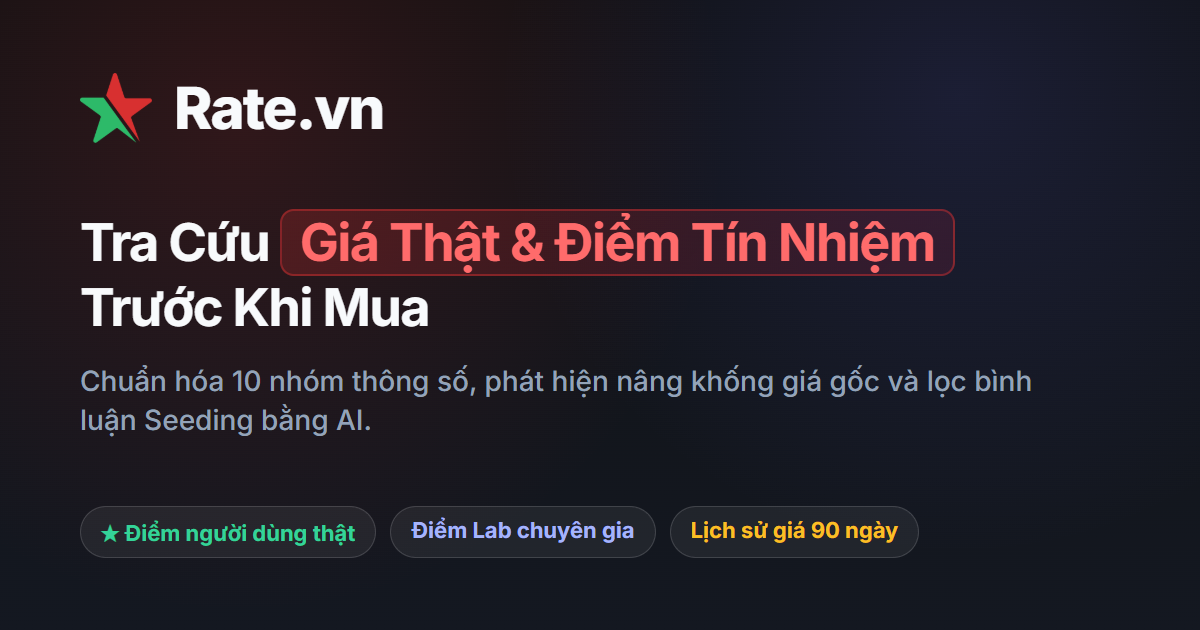
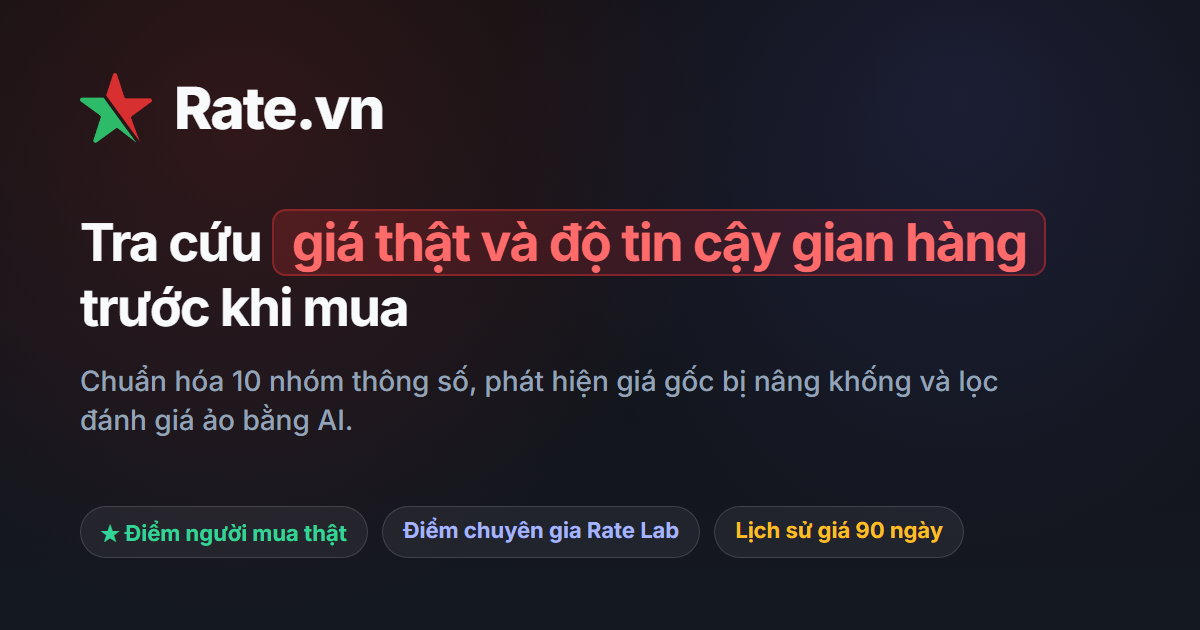
fix(web): match the share image to the plain home hero (#675) (#676)
* fix(web): match the share image to the plain home hero (#675)

The default share card read "Tra Cứu Giá Thật & Điểm Tín Nhiệm" and
"lọc bình luận Seeding bằng AI". Its HTML source now uses the sentence
case hero and plain words, and rate-og.png is re-rendered from it at
1200x630, deviceScaleFactor 1, after document.fonts.ready.

Closes #675

* docs: plain hero sample in the design tokens and DESIGN.md (#675)

---------

diff --git a/apps/web/scripts/og-image/rate-og.html b/apps/web/scripts/og-image/rate-og.html
@@ -16,7 +16,7 @@ p{margin:22px 0 0;font-size:28px;line-height:1.4;color:#94a3b8;font-weight:500;m
 .u{color:#34d399}.e{color:#a5b4fc}.s{color:#fbbf24}
 </style></head><body><div class="wrap">
 <div class="wm"><img src="../../public/img/rate-logo-512.png" width="72" height="72" alt="">Rate.vn</div>
-<div><h1>Tra Cứu <span class="hl">Giá Thật &amp; Điểm Tín Nhiệm</span> <br>Trước Khi Mua</h1>
-<p>Chuẩn hóa 10 nhóm thông số, phát hiện nâng khống giá gốc và lọc bình luận Seeding bằng AI.</p></div>
-<div class="bar"><span class="pill u">★ Điểm người dùng thật</span><span class="pill e">Điểm Lab chuyên gia</span><span class="pill s">Lịch sử giá 90 ngày</span></div>
+<div><h1>Tra cứu <span class="hl">giá thật và độ tin cậy gian hàng</span><br>trước khi mua</h1>
+<p>Chuẩn hóa 10 nhóm thông số, phát hiện giá gốc bị nâng khống và lọc đánh giá ảo bằng AI.</p></div>
+<div class="bar"><span class="pill u">★ Điểm người mua thật</span><span class="pill e">Điểm chuyên gia Rate Lab</span><span class="pill s">Lịch sử giá 90 ngày</span></div>
 </div></body></html>

diff --git a/DESIGN.md b/DESIGN.md
@@ -145,7 +145,7 @@ To ensure Rate.vn is unmistakably a **Rating & Review Platform**, every Product 
 
 ### 5.1 Homepage (`/[locale]/page.tsx`)
 
-- **Dark Obsidian Command Hero:** Focuses on **Tra cứu Điểm Đánh Giá Đa Tiêu Chí, Lọc Review Ảo (Anti-Seeding) & So Sánh Thông Số Chuẩn 10 Nhóm**.
+- **Dark Obsidian Command Hero:** Focuses on **tra cứu giá thật và độ tin cậy gian hàng trước khi mua** (multi-criteria ratings, fake-review filtering and 10-group spec comparison).
 - **Product Intelligence Cards (`.rate-product-card`):**
   - **Header Strip:** Brand + Category pill on the left; **Dual Rating Badge (`★ 4.9` User + `Lab 4.9`)** prominently on the right.
   - **Review Authenticity Pill:** Shows `94% Review thật` (Emerald) and `5 tiêu chí chấm điểm` above hardware pills.
